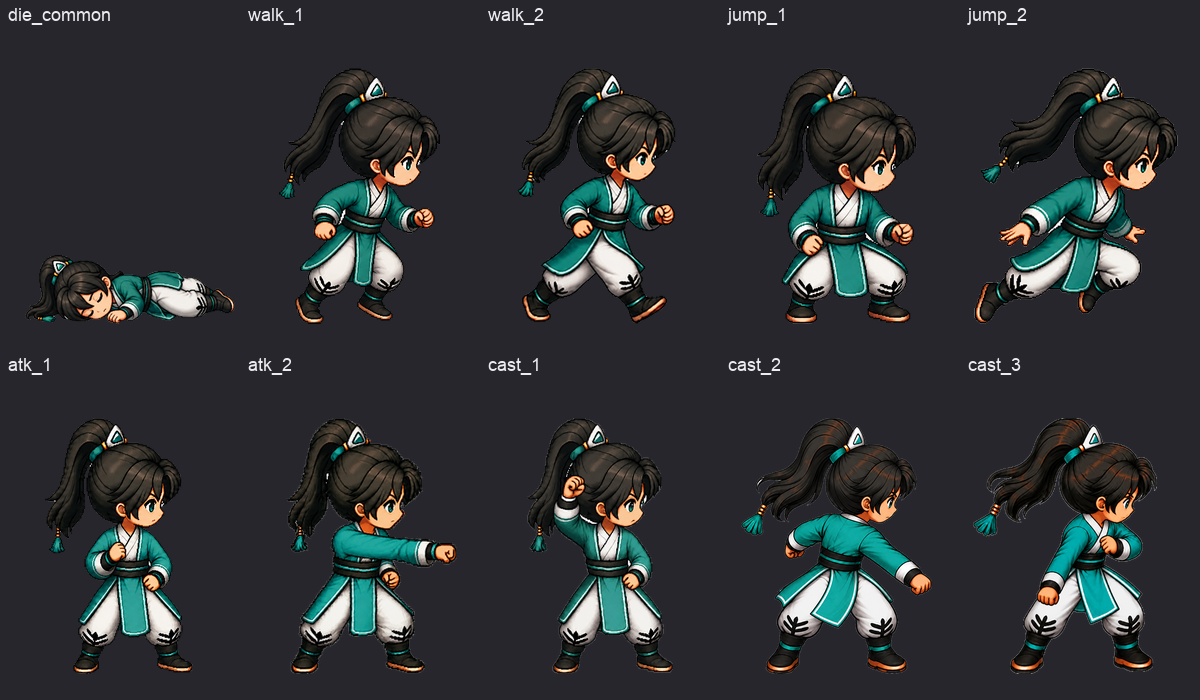
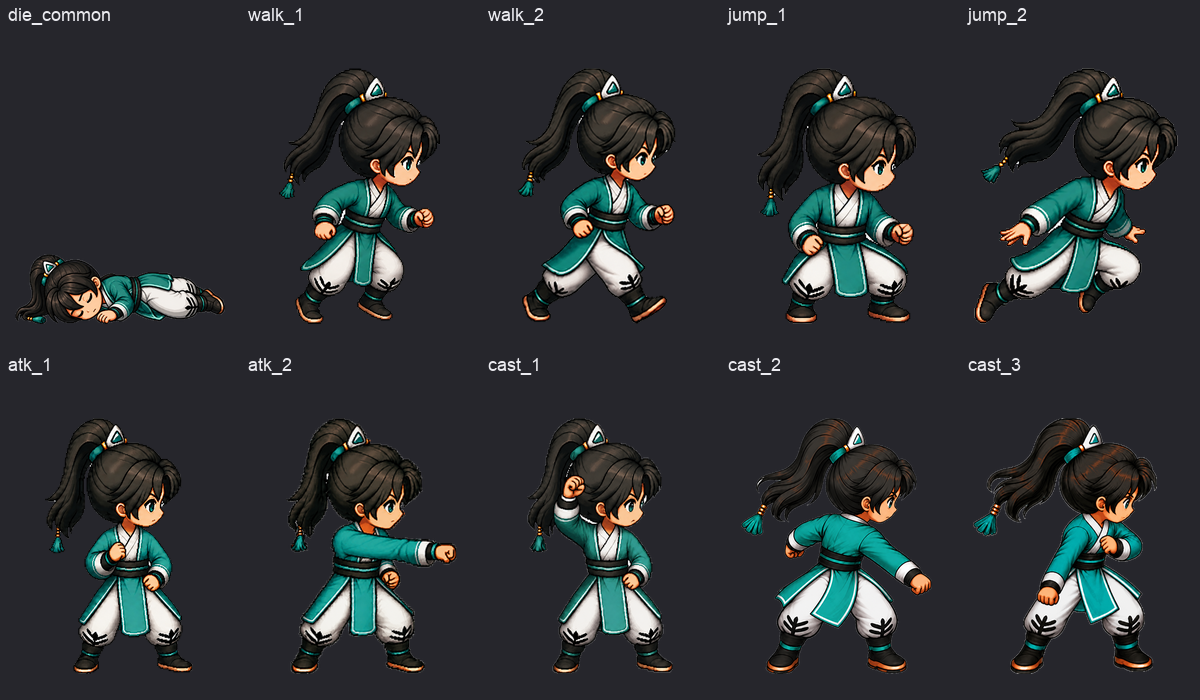
art: replace T45 shared death frame

Changed region(s): [[0.0, 0.36, 0.2158, 0.48]]

diff --git a/tasks/LOG.md b/tasks/LOG.md
@@ -322,4 +322,7 @@
 | 2026-09-05 | Codex（art） | ⏸ T45 1a 施放第三帧待复核 | Leo 指出 `cast_right_3` 角色自身右手/动作臂偏长；已生成并归一收短候选，三帧对照为 `assets/_trial_20260905/t45_batch1a_codex_native/contact/cast_triplet_attempt5.png`。正式文件暂不覆盖，故 1a 尚未完成。 |
 | 2026-09-05 | Codex（art） | ✅ T45 批 1a 帧产出完成 | Leo 确认收短版 `cast_right_3`；已覆盖正式 `assets/characters/hero/battle45/cast_right_3.png`。规格复核通过：RGBA、240×320、透明 alpha、bbox 13,44–197,300。未提交/发 delivery，待后续研发规格门检。 |
 | 2026-09-05 | Codex（art） | 📤 T45 批 1a 已交研发线门检 | commit `c015ed9e409fbd6c998127ac6dc299d133baff1f` 已推送 GitHub；projbus delivery `seq=22`、messageId `584b4c4457024256a18ed27bc16e29da` 发给 `rd`，交付 manifest/QA/对照图及 10 张 Leo 已确认帧，等待第二道规格门检。 |
+| 2026-09-05 | rd → Codex（art） | ⚠ T45 批 1a 门检有条件通过 | seq=23：9 张新帧机械门全 PASS；要求同源重制现库 `atk_right_3`，并按新锚重制通用 die 替换旧 down 向遗留。`atk_right_3` 与 Leo 已确认的普攻两帧口径冲突，已回执 received 等拍板；die 新锚候选已落 `assets/_trial_20260905/t45_batch1a_codex_native/normalized/die_common_attempt1.png`，待目验。 |
+| 2026-09-05 | Leo → Codex（art） | ✅ T45 普攻维持两帧 | Leo 确认 `atk_right_3` 为收招、与战斗静止帧差异不足，不补做；按两帧口径回传研发线，当前只等新锚通用 die 目验。 |
+| 2026-09-05 | Leo → Codex（art） | ✅ T45 通用死亡帧目验通过 | 新锚通用死亡帧候选通过；已写入 `assets/characters/hero/battle45/die_common.png`，并以同内容覆盖 `die_down.png` 作为兼容别名。规格：RGBA、240×320、bbox 15,230–225,300；待提交并补发研发线 delivery。 |
 | 2026-09-05 | ZCode | 🔍 批1a 门检=有条件通过（needs_info） | 9 张新帧机械门检全 PASS（独立脚本逐张实测）；两项整改：atk_right_3 系锚定前试点旧货与新锚 atk_1/2 混源（须新锚重制，原则7 连招同源）、die 复用废弃 down 向旧批文件（六向共用方案 PM 认可但须新锚重制+spec 记变更 36→34 实绘）；整改单 seq=23 |

diff --git a/tasks/threads/ART-ARCH.md b/tasks/threads/ART-ARCH.md
@@ -79,3 +79,15 @@ Leo 确认收短版 `cast_right_3`。已覆盖正式 `assets/characters/hero/bat
 ### H16 · 09-05 · Codex → 研发线
 
 批 1a 已提交并推送 GitHub：commit `c015ed9e409fbd6c998127ac6dc299d133baff1f`；projbus delivery `seq=22`、messageId `584b4c4457024256a18ed27bc16e29da` 已发给 `rd`，请求第二道规格门检。交付 manifest 标记 `specGate=pass`、`integrationGate=not_handed_off`，等待研发线 fetch 后回传门检结论。
+
+### H17 · 09-05 · 研发线门检回执与整改
+
+`rd` 回执（seq=23）判定批 1a 有条件通过：9 张新帧机械门全 PASS；要求同源重制现库 `atk_right_3`，并以新锚重制通用死亡帧替换旧 down 向遗留。`atk_right_3` 与 Leo 已确认的普攻两帧口径冲突，已回执 `received` 并停等拍板；死亡帧已用新待机锚+既有躺平构图完成原生候选 `assets/_trial_20260905/t45_batch1a_codex_native/normalized/die_common_attempt1.png`，待 Leo 目验。
+
+### H18 · 09-05 · Leo 口径确认
+
+Leo 确认普攻保持两帧；`atk_right_3` 只是收招、与战斗静止帧差异不足，不补做。后续按两帧口径向研发线回传，仅等待新锚通用死亡帧的目验确认。
+
+### H19 · 09-05 · 通用死亡帧定稿
+
+Leo 目验新锚通用死亡帧通过。候选已写入正式 `assets/characters/hero/battle45/die_common.png`；为兼容现有资源键，同内容同步覆盖 `die_down.png`。规格复核通过：RGBA、240×320、bbox 15,230–225,300；待提交并补发研发线 delivery。
